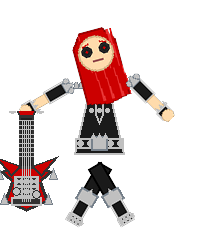
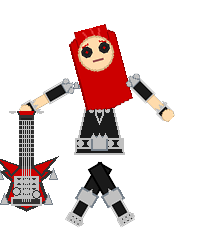
Fix player character hair to flow behind head instead of in front
- Redesigned hair drawing code to eliminate 'beard' effect
- Hair now flows behind the head with proper back_hair_points
- Added side hair that goes to the sides, not covering face
- Side-swept bangs frame the face from above, not below
- Top hair volume adds fullness at the top where hair should be
- Fixed import path for pil_rigging_system
- Regenerated all player sprites with new hair design

Changed region(s): [[0.33, 0.084, 0.66, 0.448], [0.48, 0.28, 0.54, 0.364]]

diff --git a/rigging/parts.py b/rigging/parts.py
@@ -6,7 +6,7 @@ Heavy Metal Warrior - Female character with BC Rich Warlock guitar
 from PIL import Image, ImageDraw
 from typing import Tuple
 import sys
-sys.path.insert(0, '/home/computron/pil_rigging_system')
+sys.path.insert(0, '/home/computron/repos/pil_rigging_system')
 from core.part import Part
 
 
@@ -498,41 +498,75 @@ def create_metal_head(name: str = "head", size: int = 48) -> Part:
         
         face_size = size
         
-        # Long flowing vibrant red hair (shoulder/mid-back length)
+        # Long flowing vibrant red hair - BEHIND the head
         hair_color = METAL_COLORS['vibrant_red']
         hair_highlight = (230, 50, 50)  # Lighter red for highlights
         
-        # Main hair mass - flowing down
-        hair_points = [
-            (2, face_size//3),           # Left side
-            (face_size//4, 2),            # Top left
-            (face_size*3//4, 2),          # Top right
-            (face_size-2, face_size//3),  # Right side
-            (face_size-2, face_size + 25), # Bottom right
-            (face_size//2, face_size + 30), # Bottom center
-            (2, face_size + 25)            # Bottom left
+        # BACK HAIR - flows behind the head, not in front of face
+        # This is the hair that goes down the back
+        back_hair_points = [
+            (0, 10),                      # Top left (behind head)
+            (face_size//4, 2),            # Top center-left
+            (face_size*3//4, 2),          # Top center-right
+            (face_size, 10),               # Top right (behind head)
+            (face_size, face_size + 30),   # Bottom right - long flowing back
+            (face_size//2, face_size + 35), # Bottom center point
+            (0, face_size + 30)            # Bottom left - long flowing back
         ]
-        draw.polygon(hair_points, fill=hair_color, 
+        draw.polygon(back_hair_points, fill=hair_color, 
                     outline=(150, 0, 0), width=2)
         
-        # Hair strands/layers for flowing effect
-        for i in range(5):
-            x = face_size//4 + i * face_size//5
-            # Long flowing strands
-            draw.line([(x, 5), (x + 8, face_size + 25)], 
-                     fill=hair_highlight, width=3)
-            draw.line([(x + 3, 5), (x + 5, face_size + 20)], 
-                     fill=hair_color, width=2)
-        
-        # Bangs/fringe
-        bang_points = [
-            (face_size//4, 5),
-            (face_size*3//4, 5),
-            (face_size*3//4, face_size//3),
-            (face_size//2, face_size//3 + 5),
-            (face_size//4, face_size//3)
+        # Side hair strands - flowing to the sides, NOT in front of face
+        # Left side hair
+        left_side_hair = [
+            (0, 15),
+            (-5, face_size//2),
+            (0, face_size + 20)
         ]
-        draw.polygon(bang_points, fill=hair_color)
+        draw.polygon(left_side_hair, fill=hair_color, outline=(150, 0, 0), width=1)
+        
+        # Right side hair
+        right_side_hair = [
+            (face_size, 15),
+            (face_size + 5, face_size//2),
+            (face_size, face_size + 20)
+        ]
+        draw.polygon(right_side_hair, fill=hair_color, outline=(150, 0, 0), width=1)
+        
+        # Top hair volume - covers top of head
+        top_hair_points = [
+            (face_size//6, 0),
+            (face_size//2, -3),
+            (face_size*5//6, 0),
+            (face_size*5//6, 15),
+            (face_size//2, 12),
+            (face_size//6, 15)
+        ]
+        draw.polygon(top_hair_points, fill=hair_color, outline=(150, 0, 0), width=1)
+        
+        # Side-swept bangs - frame the face from above, NOT below
+        # Left bang - swept to the side
+        left_bang = [
+            (face_size//6, 5),
+            (face_size//3, 3),
+            (face_size//3, face_size//4),
+            (face_size//6 + 2, face_size//4 + 5)
+        ]
+        draw.polygon(left_bang, fill=hair_color)
+        
+        # Right bang - swept to the side
+        right_bang = [
+            (face_size*2//3, 3),
+            (face_size*5//6, 5),
+            (face_size*5//6 - 2, face_size//4 + 5),
+            (face_size*2//3, face_size//4)
+        ]
+        draw.polygon(right_bang, fill=hair_color)
+        
+        # Hair highlight strands on top
+        draw.line([(face_size//3, 2), (face_size//3 + 5, 15)], fill=hair_highlight, width=2)
+        draw.line([(face_size//2, 0), (face_size//2 + 3, 12)], fill=hair_highlight, width=2)
+        draw.line([(face_size*2//3, 2), (face_size*2//3 - 2, 15)], fill=hair_highlight, width=2)
         
         # Face (slightly smaller for female proportions)
         face_margin = 6
